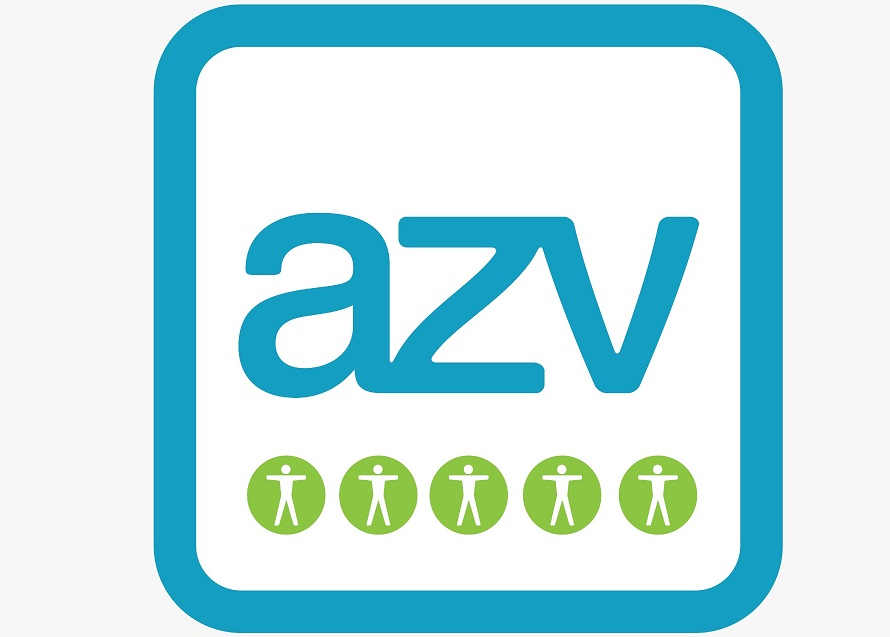
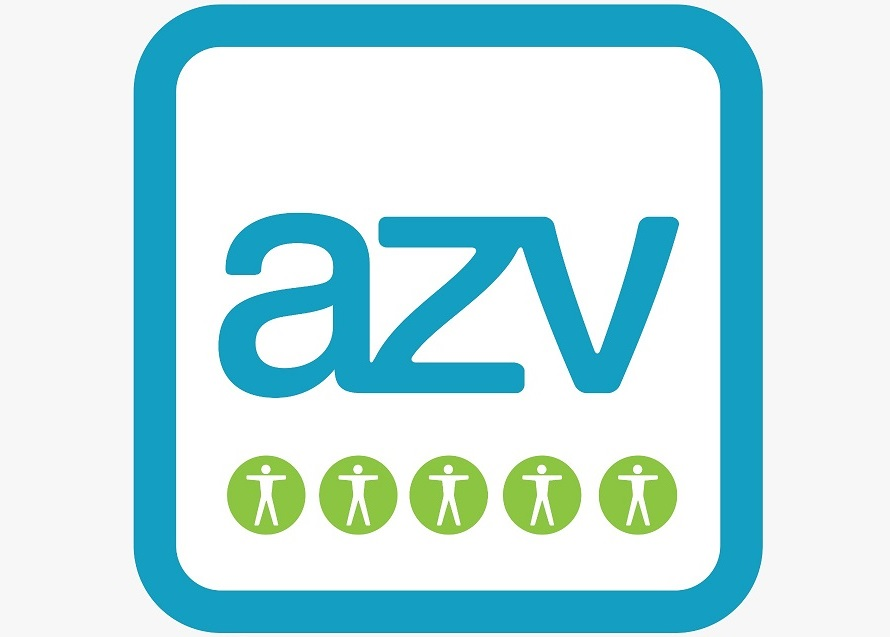
cambios
cambios

Changed region(s): [[0.1517, 0.0, 0.8798, 1.0], [0.2427, 0.9246, 0.273, 0.9545]]

diff --git a/index.html b/index.html
@@ -14,7 +14,7 @@ img {
   display: block;
   margin-left: auto;
   margin-right: auto;
-  margin-top: 50%;
+  margin-top: 40%;
 }
 body{
     background-color: #f7f7f7 !important;
@@ -22,7 +22,7 @@ body{
 </style>
 </head>
 <body>
-<img src="img/AZV.jpg" alt="AZV" style="width:70%; height:100%">
+<img src="img/AZV.jpg" alt="AZV" style="width:100%; height:100%">
 
 
 <script src="js/jquery-3.2.1.min.js"></script>
@@ -36,7 +36,7 @@ body{
 <script>
     setTimeout(function () {
     window.location.href = 'home.html';
-  }, 3500);
+  }, 2000);
 
 </script>
 </html>

diff --git a/rating.html b/rating.html
@@ -445,6 +445,7 @@
   <script src="js/js.cookie.js"></script>
   <script src="js/jquery-ui.min.js"></script>
   <script src="js/overhang.min.js"></script>
+  <script src="js/azv.js"></script>
   <script>
 
     var test_data = "";
@@ -848,7 +849,6 @@
           'Content-Type': 'application/json'
         },
         success: function (data) {
-
           rating_create_ok(data);
         },
         error: function (data) {
@@ -911,4 +911,3 @@
     }
 
   </script>
-  <script src="js/azv.js"></script>

diff --git a/js/azv.js b/js/azv.js
@@ -2,11 +2,7 @@
 //var server = 'http://app.infraruba.com:6969/api/'
 // var server = window.location.protocol + '//' + window.location.host + '/api/';
 
-var server = 'https://18.221.41.184/api/';
-
-
-
-
+var server = 'https://azvbackend.qwihi.com/api/';
 //Disable buttons for 3 seconds prevent dobleclick
 $(".button-disabled").click(function () {
 	var button_obj = $(this);

diff --git a/home.html b/home.html
@@ -118,6 +118,7 @@
 
 
   <script>
+    
 
     $(function () {
 
